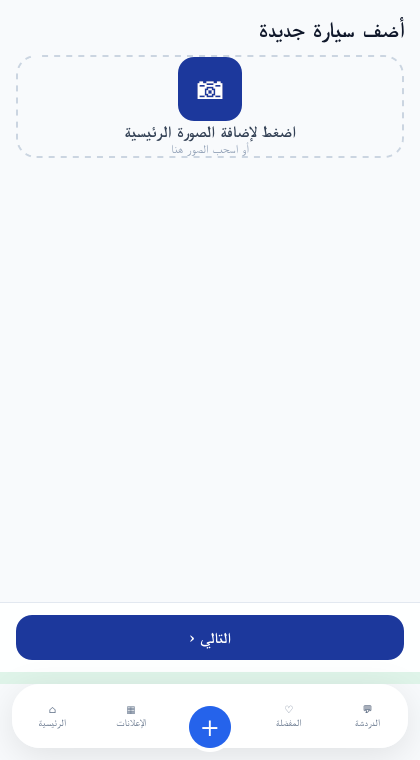
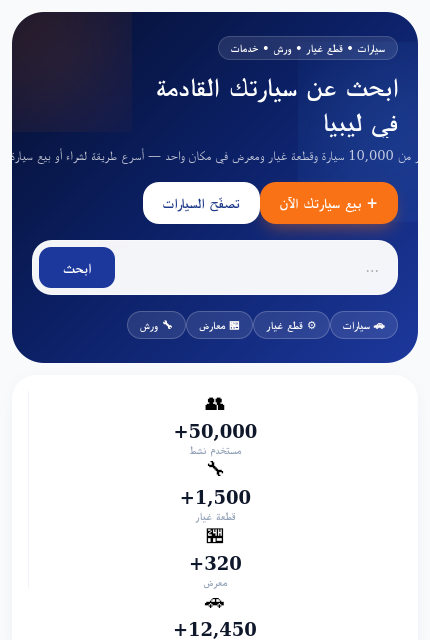
Add files via upload

diff --git a/components/hero.tsx b/components/hero.tsx
@@ -13,13 +13,15 @@ function getIcon(name: string) {
 }
 
 /**
- * Hero احترافي:
+ * Hero احترافي 2026:
  *
- * - عنوان وفقرة تعريفية واضحة.
- * - شريط بحث مركزي بارز (الإجراء الأهم في الصفحة).
- * - chips للتصنيفات الرئيسية (موبايل first، scrollable).
- * - زرّ ثانوي لإضافة إعلان.
- * - بدون stats مزيّفة (الأرقام الفارغة تفقد الثقة).
+ * - خلفية متدرّجة عميقة + توهّجات ناعمة (premium).
+ * - عنوان كبير + فقرة تعريفية.
+ * - زرّا CTA: "بيع سيارتك الآن" (برتقالي) + "تصفّح السيارات" (أبيض).
+ * - شريط بحث عائم زجاجي (الإجراء الأهم).
+ * - chips للفئات (موبايل first، scrollable).
+ *
+ * منطق البحث محفوظ كما هو.
  */
 
 const QUICK_CATS = categories.slice(0, 8);
@@ -39,143 +41,127 @@ export function Hero() {
       <div
         className="
           relative overflow-hidden rounded-[2rem]
-          bg-gradient-to-br from-[#071133] via-[#0a1d55] to-[#1c389c]
-          px-5 py-4 text-white shadow-blue
-          sm:px-8 sm:py-10 lg:px-10 lg:py-12
+          bg-gradient-to-br from-[#060f2e] via-[#0b1f63] to-[#1c389c]
+          px-5 pb-5 pt-6 text-white shadow-blue
+          sm:px-8 sm:pb-8 sm:pt-10 lg:px-10
         "
       >
-        {/* خلفية زخرفية */}
+        {/* توهّجات زخرفية */}
         <div
           aria-hidden="true"
-          className="pointer-events-none absolute -left-24 -top-24 h-64 w-64 rounded-full bg-white/5 blur-3xl"
+          className="pointer-events-none absolute -left-24 -top-24 h-72 w-72 rounded-full bg-action-500/20 blur-3xl"
         />
         <div
           aria-hidden="true"
-          className="pointer-events-none absolute -right-20 -bottom-20 h-56 w-56 rounded-full bg-action-500/15 blur-3xl"
+          className="pointer-events-none absolute -right-24 top-10 h-72 w-72 rounded-full bg-blue-400/20 blur-3xl"
+        />
+        {/* شبكة نقطية خفيفة */}
+        <div
+          aria-hidden="true"
+          className="pointer-events-none absolute inset-0 opacity-[0.07]"
+          style={{
+            backgroundImage:
+              "radial-gradient(circle, #ffffff 1px, transparent 1px)",
+            backgroundSize: "22px 22px",
+          }}
         />
 
         <div className="relative">
-          {/* badge فوق العنوان */}
+          {/* badge */}
           <span className="inline-flex rounded-full border border-white/15 bg-white/10 px-3 py-1 text-[11px] font-bold text-white/95 backdrop-blur sm:text-xs">
             سيارات • قطع غيار • ورش • خدمات
           </span>
 
-          {/* العنوان */}
-          <h1 className="mt-2 text-xl font-black leading-tight sm:mt-3 sm:text-4xl lg:text-5xl">
-            سوق السيارات الاحترافي
-            <span className="block text-white/85 sm:mt-1">في ليبيا</span>
+          {/* العنوان الكبير */}
+          <h1 className="mt-3 text-2xl font-black leading-tight sm:text-4xl lg:text-5xl">
+            ابحث عن سيارتك القادمة
+            <span className="mt-1 block bg-gradient-to-l from-white to-blue-200 bg-clip-text text-transparent">
+              في ليبيا
+            </span>
           </h1>
 
-          <p className="mt-2 max-w-2xl text-xs leading-6 text-white/80 sm:mt-4 sm:text-base sm:leading-8">
-            ابحث، تصفّح، وتواصل مباشرة مع التجّار والورش — أسرع طريقة لشراء أو
-            بيع سيارة في ليبيا.
+          <p className="mt-2 max-w-xl text-xs leading-6 text-white/75 sm:mt-3 sm:text-base sm:leading-8">
+            أكثر من 10,000 سيارة وقطعة غيار ومعرض في مكان واحد — أسرع طريقة
+            لشراء أو بيع سيارة في ليبيا.
           </p>
 
-          {/* شريط البحث - الإجراء الأهم */}
+          {/* زرّا CTA */}
+          <div className="mt-4 flex flex-wrap items-center gap-2.5">
+            <Link
+              href="/add-listing"
+              className="
+                inline-flex items-center justify-center gap-1.5
+                rounded-2xl bg-action-500 px-5 py-3 text-sm font-black
+                text-white shadow-action transition
+                hover:bg-action-600 active:scale-[0.97]
+              "
+            >
+              <Plus size={16} />
+              بيع سيارتك الآن
+            </Link>
+            <Link
+              href="/listings"
+              className="
+                inline-flex items-center justify-center gap-1.5
+                rounded-2xl bg-white px-5 py-3 text-sm font-black
+                text-brand-800 shadow-lg transition
+                hover:bg-blue-50 active:scale-[0.97]
+              "
+            >
+              تصفّح السيارات
+            </Link>
+          </div>
+
+          {/* شريط البحث العائم الزجاجي */}
           <form
             onSubmit={handleSearch}
             className="
-              mt-3 flex items-stretch gap-2
-              rounded-2xl border border-white/15 bg-white/95 p-1.5
-              shadow-2xl backdrop-blur
-              sm:mt-6 sm:rounded-[20px]
+              mt-4 flex items-stretch gap-2
+              rounded-[20px] border border-white/40 bg-white/95 p-1.5
+              shadow-2xl backdrop-blur-xl
+              sm:mt-6
             "
             role="search"
           >
             <div className="relative flex-1">
               <Search
                 size={18}
-                className="
-                  pointer-events-none absolute right-3 top-1/2
-                  -translate-y-1/2 text-slate-400
-                "
+                className="pointer-events-none absolute right-3 top-1/2 -translate-y-1/2 text-slate-400"
                 aria-hidden="true"
               />
               <input
                 type="search"
                 value={search}
                 onChange={(e) => setSearch(e.target.value)}
-                placeholder="ابحث عن سيارة، موديل، قطعة..."
-                className="
-                  w-full rounded-xl border-0 bg-transparent
-                  py-3 pr-10 pl-3 text-sm text-slate-900
-                  outline-none placeholder:text-slate-400
-                "
+                placeholder="ابحث عن سيارة، قطعة غيار، معرض أو سيارة..."
+                className="w-full rounded-xl border-0 bg-transparent py-3 pr-10 pl-3 text-sm text-slate-900 outline-none placeholder:text-slate-400"
                 aria-label="ابحث في الإعلانات"
               />
             </div>
             <button
               type="submit"
-              className="
-                inline-flex shrink-0 items-center justify-center gap-1.5
-                rounded-xl bg-brand-700 px-4 py-2.5 text-sm font-black
-                text-white transition active:scale-[0.97]
-                hover:bg-brand-800
-                sm:px-6
-              "
+              className="inline-flex shrink-0 items-center justify-center gap-1.5 rounded-xl bg-brand-700 px-4 py-2.5 text-sm font-black text-white transition hover:bg-brand-800 active:scale-[0.97] sm:px-6"
             >
               <Search size={16} className="sm:hidden" />
               <span className="hidden sm:inline">ابحث</span>
             </button>
           </form>
 
-          {/* chips للتصنيفات السريعة */}
-          <div
-            className="
-              -mx-5 mt-4 flex gap-2 overflow-x-auto px-5 no-scrollbar
-              sm:-mx-0 sm:mt-5 sm:px-0
-            "
-          >
+          {/* chips الفئات */}
+          <div className="-mx-5 mt-4 flex gap-2 overflow-x-auto px-5 no-scrollbar sm:-mx-0 sm:px-0">
             {QUICK_CATS.map((c) => {
               const Icon = getIcon(c.icon);
               return (
                 <Link
                   key={c.slug}
                   href={`/listings?category=${c.slug}`}
-                  className="
-                    inline-flex shrink-0 items-center gap-1.5
-                    rounded-full border border-white/20 bg-white/10
-                    px-3 py-1.5 text-[11px] font-bold text-white
-                    backdrop-blur transition
-                    hover:bg-white/20 active:scale-95
-                    sm:text-xs
-                  "
+                  className="inline-flex shrink-0 items-center gap-1.5 rounded-full border border-white/20 bg-white/10 px-3 py-1.5 text-[11px] font-bold text-white backdrop-blur transition hover:bg-white/20 active:scale-95 sm:text-xs"
                 >
                   <Icon size={13} aria-hidden="true" />
                   {c.name}
                 </Link>
               );
             })}
-          </div>
-
-          {/* CTA ثانوي */}
-          <div className="mt-3 flex flex-wrap items-center gap-2 sm:mt-6">
-            <Link
-              href="/add-listing"
-              className="
-                inline-flex items-center justify-center gap-1.5
-                rounded-2xl bg-action-500 px-4 py-2.5 text-sm
-                font-black text-white shadow-action transition
-                hover:bg-action-600 active:scale-[0.97]
-                sm:px-5 sm:py-3
-              "
-            >
-              <Plus size={16} />
-              ابدأ بإضافة إعلان
-            </Link>
-            <Link
-              href="/listings"
-              className="
-                inline-flex items-center justify-center gap-1.5
-                rounded-2xl border border-white/20 bg-white/10
-                px-4 py-2.5 text-sm font-bold text-white
-                backdrop-blur transition hover:bg-white/20
-                active:scale-[0.97]
-                sm:px-5 sm:py-3
-              "
-            >
-              تصفّح الإعلانات
-            </Link>
           </div>
         </div>
       </div>

diff --git a/app/page.tsx b/app/page.tsx
@@ -1,11 +1,13 @@
 "use client";
 
 import { useEffect, useState } from "react";
+
 import { BrowseByBrand } from "@/components/browse-by-brand";
 import { CategoryGrid } from "@/components/category-grid";
 import { CTASection } from "@/components/cta-section";
 import { FeaturedListingsSection } from "@/components/featured-listings-section";
 import { Hero } from "@/components/hero";
+import { PlatformStats } from "@/components/platform-stats";
 import { HomepageBannersCarousel } from "@/components/homepage-banners-carousel";
 import { ListingsGrid } from "@/components/listings-grid";
 import { SiteFooter } from "@/components/site-footer";
@@ -37,9 +39,8 @@ import type { HomepageSection } from "@/lib/cms/types";
 export default function HomePage() {
   const { config, banners } = usePublicHomepageConfig();
 
-  // mounted gate: نتفادى أي اختلاف بين رندر السيرفر والعميل (hydration)
-  // بعدم رسم الأقسام الديناميكية حتى يكتمل mount على العميل. هذا يقضي
-  // على أخطاء #418/#423/#310 الناتجة عن محتوى يعتمد على المتصفح/الوقت.
+  // mounted gate: نتفادى اختلاف رندر السيرفر/العميل (hydration #310/#418)
+  // بعدم رسم الأقسام الديناميكية حتى يكتمل mount على العميل.
   const [mounted, setMounted] = useState(false);
   useEffect(() => setMounted(true), []);
 
@@ -83,16 +84,17 @@ export default function HomePage() {
       {mounted && <StoriesRow />}
       <Hero />
 
+      {/* شريط إحصائيات المنصة - أسفل الـHero مباشرة */}
+      {mounted && <PlatformStats />}
+
       {/* قسم خاص: VerifiedDealersRow (موثوق دائماً، خارج التحكم) */}
       {mounted && <VerifiedDealersRow />}
 
-      {/* الأقسام الديناميكية - تُرسم بعد mount فقط (تفادي hydration mismatch) */}
+      {/* الأقسام الديناميكية */}
       {mounted &&
         config.sectionsOrder
           .filter((key) => config.enabledSections.includes(key))
-          .map((key) => (
-            <div key={key}>{renderSection(key)}</div>
-          ))}
+          .map((key) => <div key={key}>{renderSection(key)}</div>)}
 
       {/* الثوابت في الأسفل */}
       <CTASection />

diff --git a/components/platform-stats.tsx b/components/platform-stats.tsx
@@ -1,0 +1,48 @@
+"use client";
+
+import { Users, Wrench, Store, Car } from "lucide-react";
+
+/**
+ * شريط إحصائيات المنصة - يظهر أسفل الـHero.
+ *
+ * أرقام ثابتة (لا استعلامات) لخفّة الأداء وعدم التأثير على LCP.
+ * عدّليها يدوياً عند الحاجة، أو اربطيها لاحقاً بعدّادات حقيقية.
+ */
+
+const STATS = [
+  { icon: Users, value: "50,000+", label: "مستخدم نشط", color: "#2563EB" },
+  { icon: Wrench, value: "1,500+", label: "قطعة غيار", color: "#f97316" },
+  { icon: Store, value: "320+", label: "معرض", color: "#2563EB" },
+  { icon: Car, value: "12,450+", label: "سيارة", color: "#22c55e" },
+];
+
+export function PlatformStats() {
+  return (
+    <section className="container mt-3">
+      <div className="grid grid-cols-2 gap-2 rounded-3xl bg-white p-4 shadow-[0_2px_20px_-8px_rgba(15,23,42,0.12)] dark:bg-slate-900 sm:grid-cols-4 sm:gap-0">
+        {STATS.map((s, i) => {
+          const Icon = s.icon;
+          return (
+            <div
+              key={s.label}
+              className={
+                "flex flex-col items-center justify-center gap-1.5 px-2 py-2 text-center sm:py-1 " +
+                (i < STATS.length - 1
+                  ? "sm:border-l sm:border-slate-100 sm:dark:border-slate-800"
+                  : "")
+              }
+            >
+              <Icon size={22} style={{ color: s.color }} strokeWidth={2} />
+              <div className="text-lg font-black text-slate-900 dark:text-white">
+                {s.value}
+              </div>
+              <div className="text-[11px] font-bold text-slate-400">
+                {s.label}
+              </div>
+            </div>
+          );
+        })}
+      </div>
+    </section>
+  );
+}

diff --git a/HOMEPAGE_SETUP.md b/HOMEPAGE_SETUP.md
@@ -1,0 +1,40 @@
+# 🏠 Hero premium + إحصائيات — جاهز للرفع المباشر
+
+أضفتُ كل شيء بنفسي. **لا تعديل يدوي مطلوب.**
+
+## الملفات (3)
+
+| الملف | الحالة |
+|---|---|
+| `app/page.tsx` | محدّث: + PlatformStats + **mounted gate** (إصلاح hydration مدمج) |
+| `components/hero.tsx` | Hero جديد premium |
+| `components/platform-stats.tsx` | شريط الإحصائيات (جديد) |
+
+## ✅ مهم: أمان hydration مضمون
+
+بنيتُ `app/page.tsx` **بالـmounted gate** (نفس إصلاح #310/#418 السابق) مدمجاً.
+فلن تُرجِع أخطاء hydration رغم إضافة المكوّن الجديد. كل المكوّنات الديناميكية
+(StoriesRow / PlatformStats / VerifiedDealersRow / الأقسام) خلف `{mounted && ...}`،
+و`Hero` يبقى SSR (للـSEO + LCP).
+
+## ما سُلّم
+- **Hero**: خلفية متدرّجة + توهّجات + عنوان كبير بتدرّج + زرّا "بيع سيارتك الآن"/"تصفّح" + بحث عائم زجاجي + chips. منطق البحث محفوظ.
+- **PlatformStats**: 50,000+ / 1,500+ / 320+ / 12,450+ ببطاقة بيضاء. أرقام ثابتة (لا تأثير على الأداء). عدّليها في الملف.
+
+## النشر (ارفعي الثلاثة)
+
+```bash
+git add app/page.tsx components/hero.tsx components/platform-stats.tsx
+git commit -m "redesign: premium hero + platform stats (hydration-safe)"
+git push
+```
+
+## الاختبار
+1. الصفحة الرئيسية → ✅ Hero جديد + شريط إحصائيات أسفله
+2. console → ✅ لا أخطاء hydration (#310/#418)
+3. زر "بيع سيارتك الآن" → إضافة إعلان · "تصفّح" → الإعلانات · البحث يعمل
+
+> لم أشغّل build فعلي (لا شبكة). تحققتُ: الأقواس متوازنة ✅، mounted gate صحيح، منطق البحث محفوظ.
+
+## 🔜 الجولات القادمة (إن رغبتِ)
+تكبير بطاقات السيارات · category cards بصور · تحسين الفوتر · قسم "الأكثر حفظاً" — كل مكوّن معزولاً ومختبراً.
